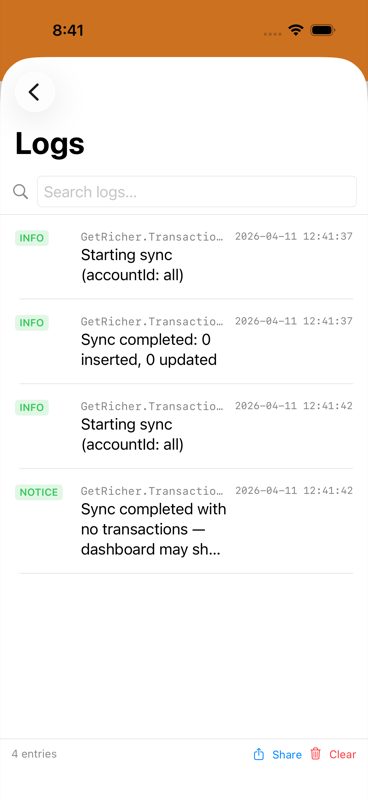
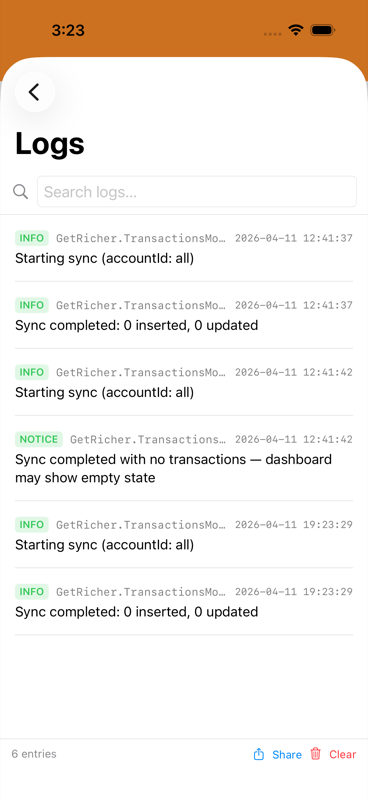
Improve log readability and include raw API response in errors
- LogsView: stack level/label/timestamp above message for portrait readability
- LogsView: tap any log entry to see full detail sheet with selectable text
- LogEntryDetailView: shows level, label, time, source, full message, metadata
- LunchMoneyClient: catch decode errors and include raw response body
- LunchMoneyError: add decodingFailed/serverError cases with response bodies
- LogEntry: add Identifiable conformance for sheet binding

diff --git a/Finance/LogsView.swift b/Finance/LogsView.swift
@@ -3,6 +3,7 @@ import SwiftUI
 
 struct LogsView: View {
     @Environment(LogsModel.self) private var model
+    @State private var selectedEntry: LogEntry?
 
     var body: some View {
         @Bindable var model = model
@@ -86,6 +87,9 @@ struct LogsView: View {
         }
         .navigationTitle("Logs")
         .task { await model.load() }
+        .sheet(item: $selectedEntry) { entry in
+            LogEntryDetailView(entry: entry)
+        }
     }
 
     private var logList: some View {
@@ -93,6 +97,10 @@ struct LogsView: View {
             List(model.filteredItems) { item in
                 LogEntryRow(entry: item.entry)
                     .id(item.id)
+                    .contentShape(Rectangle())
+                    .onTapGesture {
+                        selectedEntry = item.entry
+                    }
             }
             .listStyle(.plain)
             .onChange(of: model.items.count) { _, _ in
@@ -113,27 +121,89 @@ private struct LogEntryRow: View {
     let entry: LogEntry
 
     var body: some View {
-        HStack(alignment: .top, spacing: 8) {
-            LevelBadge(level: entry.level)
-                .frame(width: 64, alignment: .leading)
-
-            VStack(alignment: .leading, spacing: 2) {
+        VStack(alignment: .leading, spacing: 4) {
+            HStack {
+                LevelBadge(level: entry.level)
                 Text(entry.label)
                     .font(.caption.monospaced())
                     .foregroundStyle(.secondary)
                     .lineLimit(1)
-                Text(entry.message)
-                    .font(.body)
-                    .lineLimit(3)
+                Spacer()
+                Text(entry.timestamp.prefix(19).replacingOccurrences(of: "T", with: " "))
+                    .font(.caption2.monospaced())
+                    .foregroundStyle(.secondary)
+                    .lineLimit(1)
             }
-            .frame(maxWidth: .infinity, alignment: .leading)
-
-            Text(entry.timestamp.prefix(19).replacingOccurrences(of: "T", with: " "))
-                .font(.caption2.monospaced())
-                .foregroundStyle(.secondary)
-                .lineLimit(1)
+            Text(entry.message)
+                .font(.subheadline)
+                .lineLimit(3)
+                .foregroundStyle(.primary)
         }
         .padding(.vertical, 2)
+    }
+}
+
+private struct LogEntryDetailView: View {
+    let entry: LogEntry
+    @Environment(\.dismiss) private var dismiss
+
+    var body: some View {
+        NavigationStack {
+            ScrollView {
+                VStack(alignment: .leading, spacing: 16) {
+                    LabeledContent("Level") {
+                        LevelBadge(level: entry.level)
+                    }
+                    LabeledContent("Label") {
+                        Text(entry.label)
+                            .font(.body.monospaced())
+                    }
+                    LabeledContent("Time") {
+                        Text(entry.timestamp.replacingOccurrences(of: "T", with: " "))
+                            .font(.body.monospaced())
+                    }
+                    if let source = entry.source {
+                        LabeledContent("Source") {
+                            Text(source)
+                                .font(.body.monospaced())
+                        }
+                    }
+
+                    Divider()
+
+                    VStack(alignment: .leading, spacing: 4) {
+                        Text("Message")
+                            .font(.headline)
+                        Text(entry.message)
+                            .font(.body)
+                            .textSelection(.enabled)
+                    }
+
+                    if let metadata = entry.metadata, !metadata.isEmpty {
+                        Divider()
+                        VStack(alignment: .leading, spacing: 4) {
+                            Text("Metadata")
+                                .font(.headline)
+                            ForEach(metadata.sorted(by: { $0.key < $1.key }), id: \.key) { key, value in
+                                LabeledContent(key) {
+                                    Text(value)
+                                        .font(.body.monospaced())
+                                        .textSelection(.enabled)
+                                }
+                            }
+                        }
+                    }
+                }
+                .padding()
+            }
+            .navigationTitle("Log Entry")
+            .navigationBarTitleDisplayMode(.inline)
+            .toolbar {
+                ToolbarItem(placement: .confirmationAction) {
+                    Button("Done") { dismiss() }
+                }
+            }
+        }
     }
 }
 

diff --git a/FinancePackage/Sources/sdks/LunchMoneySDK/LunchMoneyClient.swift b/FinancePackage/Sources/sdks/LunchMoneySDK/LunchMoneyClient.swift
@@ -56,10 +56,16 @@ public struct LunchMoneyClient: LunchMoneyClientProtocol, Sendable {
         }
 
         guard httpResponse.statusCode == 200 else {
-            throw LunchMoneyError.serverError(httpResponse.statusCode)
+            let body = String(data: data, encoding: .utf8) ?? "<non-utf8 body>"
+            throw LunchMoneyError.serverError(httpResponse.statusCode, body: body)
         }
 
-        return try JSONDecoder().decode(TransactionsResponseDTO.self, from: data)
+        do {
+            return try JSONDecoder().decode(TransactionsResponseDTO.self, from: data)
+        } catch {
+            let body = String(data: data, encoding: .utf8) ?? "<non-utf8 body>"
+            throw LunchMoneyError.decodingFailed(endpoint: "transactions", body: body, underlying: error)
+        }
     }
 
     public func fetchPlaidAccounts(token: String) async throws -> PlaidAccountsResponseDTO {
@@ -77,17 +83,37 @@ public struct LunchMoneyClient: LunchMoneyClientProtocol, Sendable {
         }
 
         guard httpResponse.statusCode == 200 else {
-            throw LunchMoneyError.serverError(httpResponse.statusCode)
+            let body = String(data: data, encoding: .utf8) ?? "<non-utf8 body>"
+            throw LunchMoneyError.serverError(httpResponse.statusCode, body: body)
         }
 
-        return try JSONDecoder().decode(PlaidAccountsResponseDTO.self, from: data)
+        do {
+            return try JSONDecoder().decode(PlaidAccountsResponseDTO.self, from: data)
+        } catch {
+            let body = String(data: data, encoding: .utf8) ?? "<non-utf8 body>"
+            throw LunchMoneyError.decodingFailed(endpoint: "plaid_accounts", body: body, underlying: error)
+        }
     }
 }
 
-public enum LunchMoneyError: Error, Sendable {
+public enum LunchMoneyError: Error, Sendable, LocalizedError {
     case invalidURL
     case invalidResponse
-    case serverError(Int)
+    case serverError(Int, body: String)
+    case decodingFailed(endpoint: String, body: String, underlying: Error)
+
+    public var errorDescription: String? {
+        switch self {
+        case .invalidURL:
+            return "Invalid URL"
+        case .invalidResponse:
+            return "Invalid response from server"
+        case .serverError(let code, let body):
+            return "Server error \(code): \(body.prefix(500))"
+        case .decodingFailed(let endpoint, let body, let underlying):
+            return "Failed to decode \(endpoint) response: \(underlying.localizedDescription)\nResponse body: \(body.prefix(1000))"
+        }
+    }
 }
 
 public struct TransactionsResponseDTO: Codable, Sendable {

diff --git a/FinancePackage/Sources/sdks/LoggingSDK/FileLogHandler.swift b/FinancePackage/Sources/sdks/LoggingSDK/FileLogHandler.swift
@@ -64,7 +64,9 @@ public struct FileLogHandler: LogHandler, Sendable {
     }
 }
 
-public struct LogEntry: Codable, Sendable {
+public struct LogEntry: Codable, Sendable, Identifiable {
+    public var id: String { "\(timestamp)-\(label)-\(message.prefix(50))" }
+
     public let timestamp: String
     public let level: String
     public let label: String
